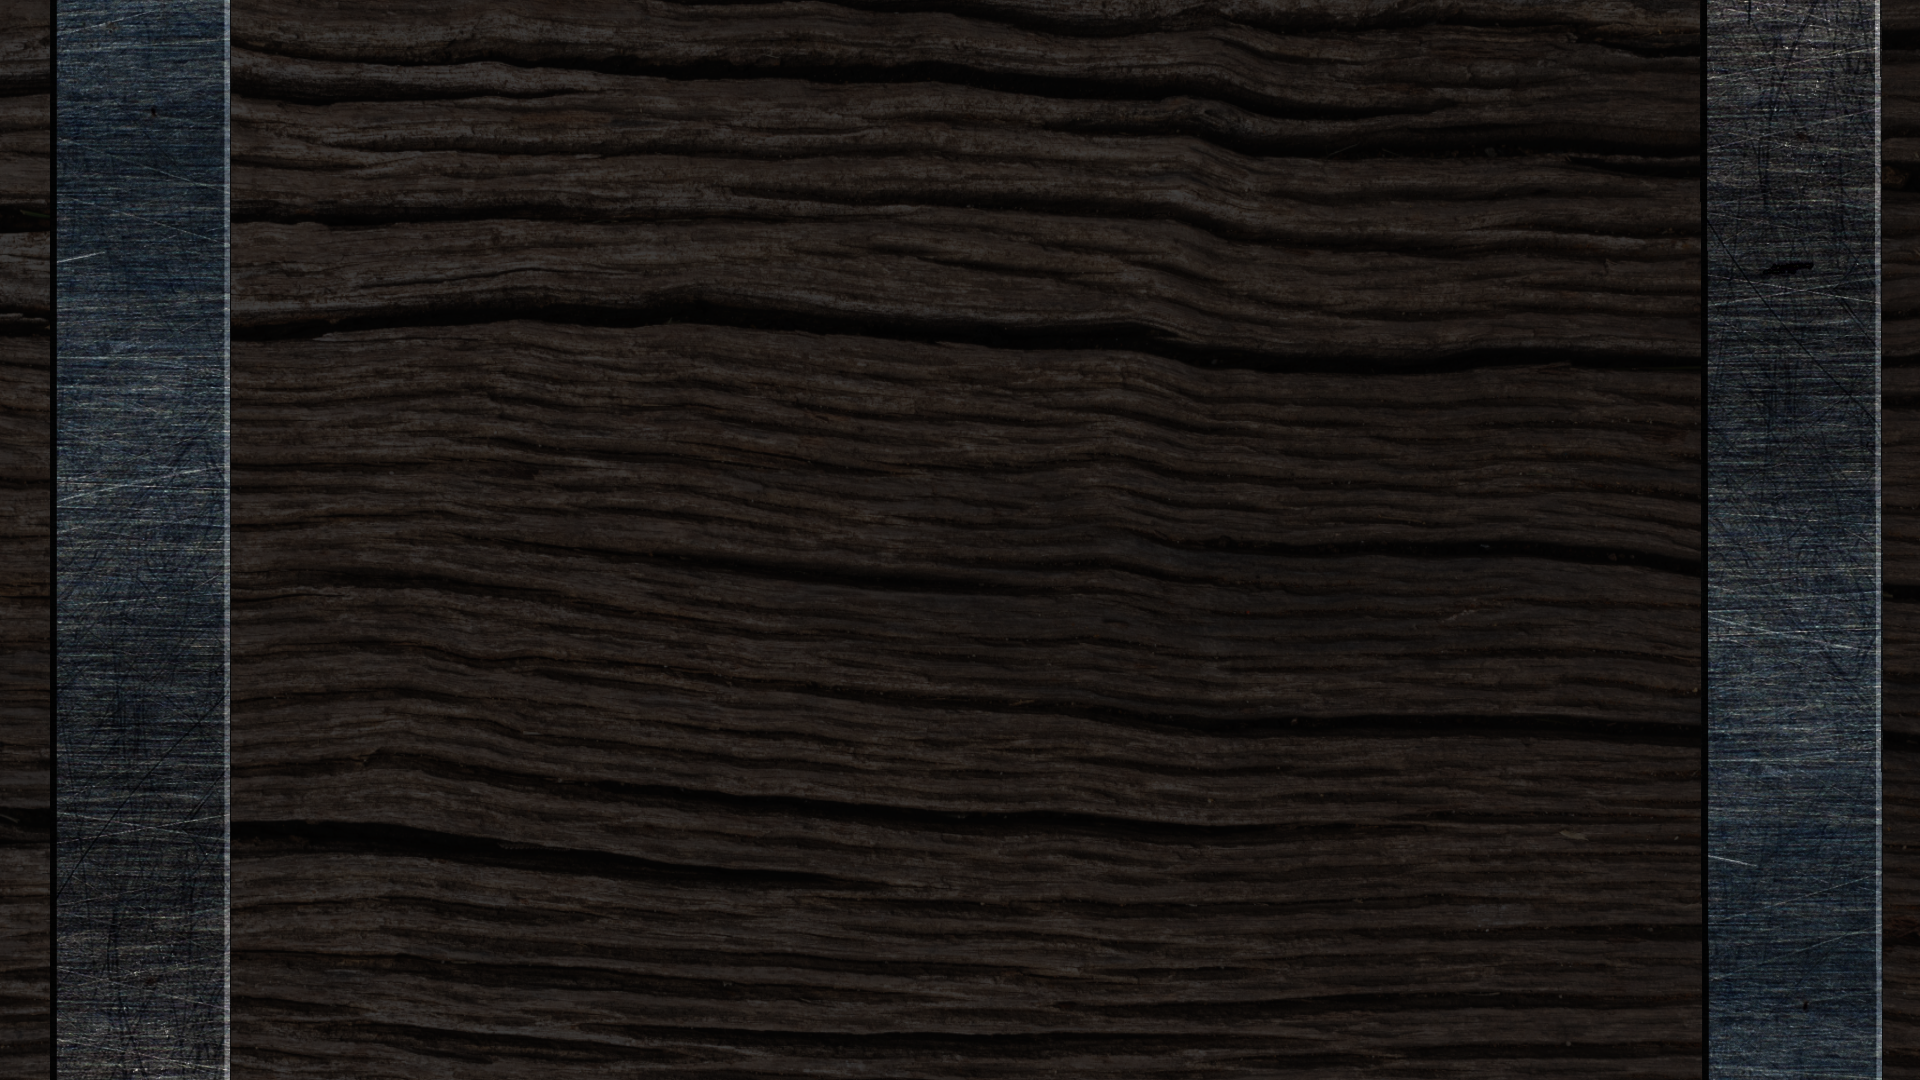
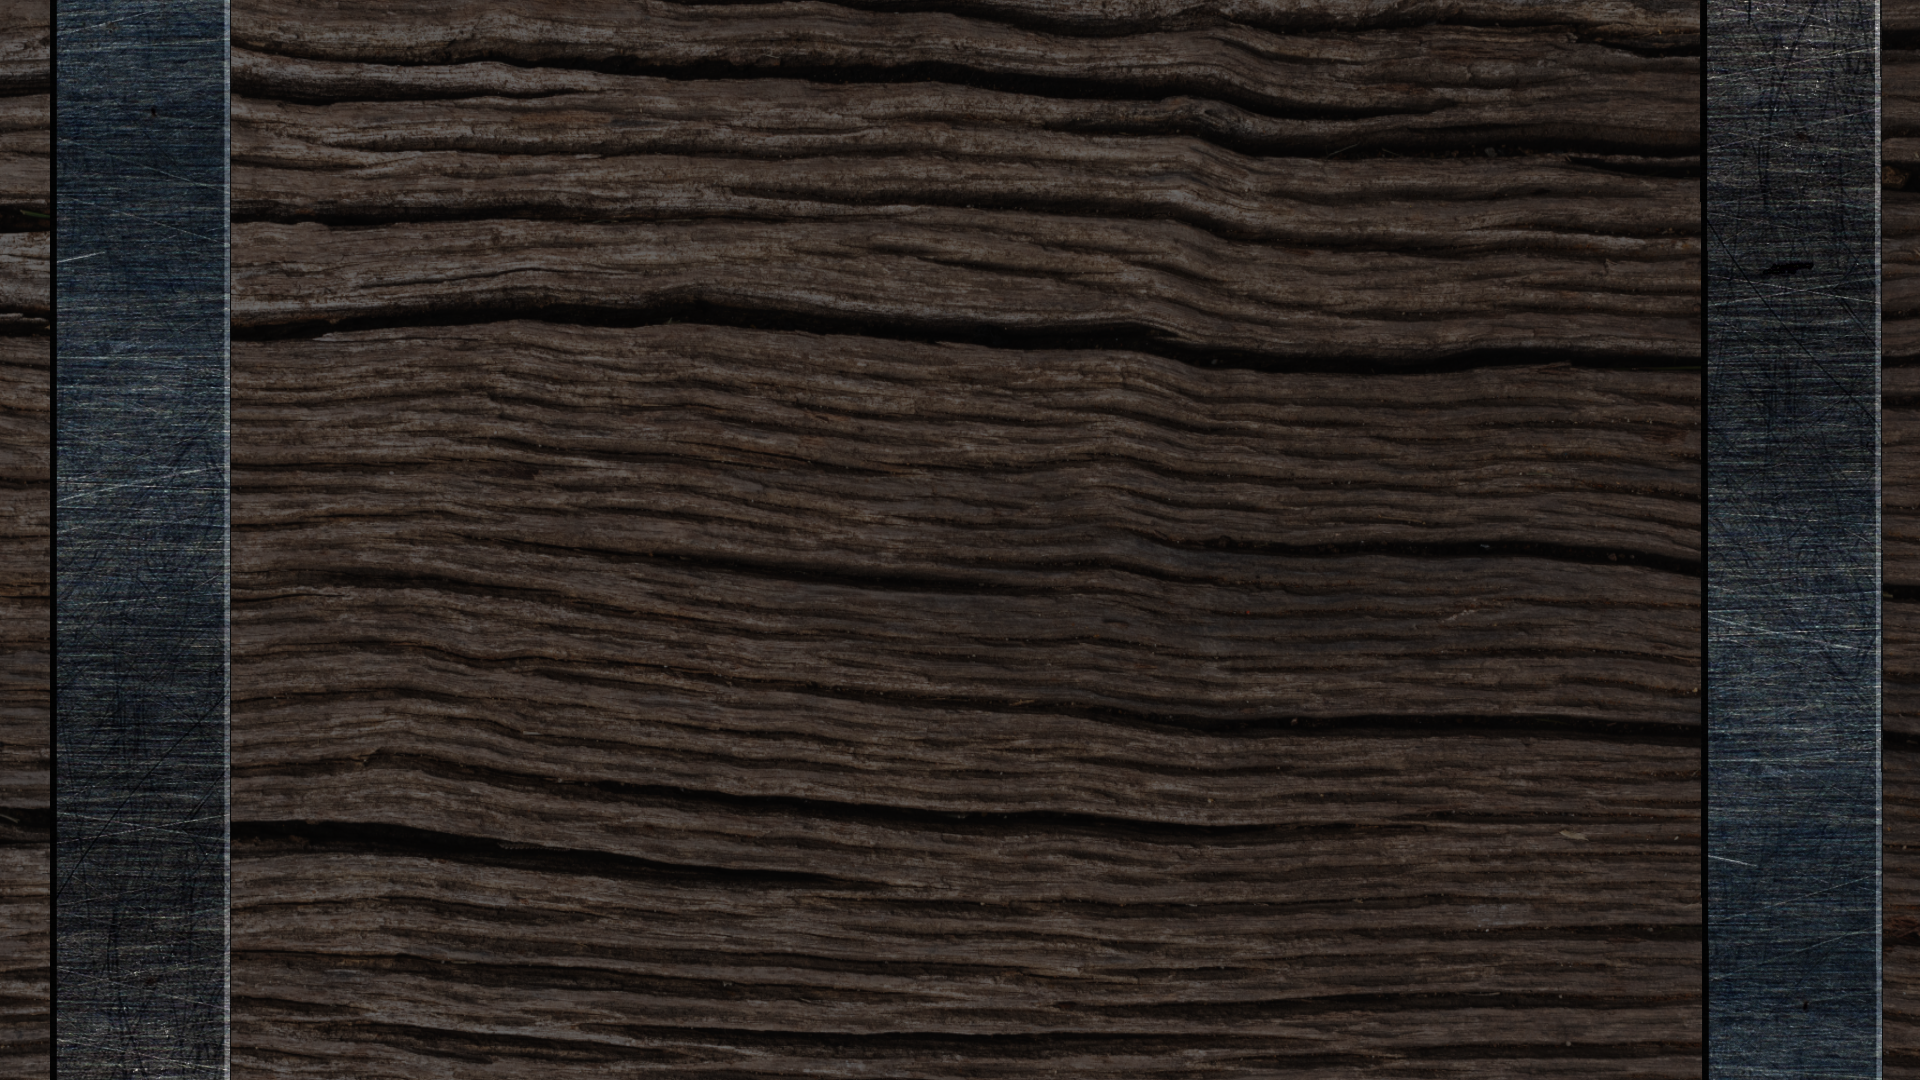
feat: post processing throug baseScene, removed old processing code

diff --git a/engine/include/scene/scene.hpp b/engine/include/scene/scene.hpp
@@ -26,16 +26,37 @@ private:
 
 class BaseScene: public IScene{
 public:
+    BaseScene(){m_renderTarget = ::LoadRenderTexture(::GetScreenWidth(),::GetScreenHeight());}
+    ~BaseScene(){::UnloadRenderTexture(m_renderTarget);}
     void OnRestore() override {};
     void OnSuspend() override {};
     void OnExit() override {};
 
     void OnDraw() override {
         BeginDrawing();
+        GetServices().renderer.beginTextureMode(m_renderTarget);
         ClearBackground(BLACK);
         OnDrawContent();
+        GetServices().renderer.endTextureMode();
+        OnDrawToScreen();
         EndDrawing();
     };
+    //Use for post processing
+    virtual void OnDrawToScreen() {
+        auto drawCall = [this](){
+            ::DrawTextureRec(m_renderTarget.texture,
+            {0, 0, static_cast<float>(m_renderTarget.texture.width), static_cast<float>(-m_renderTarget.texture.height)},
+            {0, 0}, WHITE);
+        };
+        auto& usr = GetServices().runtimeCfg.user;
+        useShaderUnchecked(
+            "processing",
+            {{"brightness", usr.userBrightness},
+            },
+            drawCall
+        );
+        
+    }
     void OnUpdate(float dt) override {
         PerfTester tester = GetServices().perfLog.log("Scene OnUpdate Full");
         Tester perfProblemCheck("Scene OnUpdate", 20, true);
@@ -51,6 +72,7 @@ public:
         bool needsResize = root.OnUpdate(dt); //updates other data related to UI states
         if (needsResize || ::IsWindowResized()) { //resize if needed
             OnResize();
+            
         }
         OnUpdateState(); //updates scene data not UI
     };
@@ -85,16 +107,24 @@ protected:
         mylog::GetLogger().DebugInfo("Resized: ", Vector2{::GetScreenWidth()/1.0f, ::GetScreenHeight()/1.0f});
         PerfTester tester = GetServices().perfLog.log("OnResize");
         auto dims = Vector2{
-                static_cast<float>(::GetScreenWidth()),
-                static_cast<float>(::GetScreenHeight())
-            };
-            MyRectangle rect = {{0,0}, dims};
-            root.OnMeasure(dims);
-            root.OnArrange(rect);
+            static_cast<float>(::GetScreenWidth()),
+            static_cast<float>(::GetScreenHeight())
+        };
+        MyRectangle rect = {{0,0}, dims};
+        root.OnMeasure(dims);
+        root.OnArrange(rect);
+        Ivec2 newSize = {GetScreenWidth(),GetScreenHeight()};
+        if (lastSize!= newSize){
+            ::UnloadRenderTexture(m_renderTarget);
+            m_renderTarget = ::LoadRenderTexture(newSize.x,newSize.y);
+            lastSize = newSize;
+        }
     }
     virtual void OnDrawContent() = 0;
     virtual void OnUpdateState() = 0;
     Root root;
     Animated<float> m_transitionProggress{0.0f, 0.0f, Easing::easeInOutCubic};
+    RenderTexture2D m_renderTarget;
+    Ivec2 lastSize;
     float m_transitionTime{0}; //Set this to 0 to have zero transition time
 };

diff --git a/engine/src/ui/debugOverlay.cpp b/engine/src/ui/debugOverlay.cpp
@@ -26,7 +26,6 @@ DebugOverlay::DebugOverlay(UIComponentSpec uiSpec, LayoutSpec layoutSpec)
         LayoutSpec{}.AlignBegin().CrossBegin()
     );
     auto& cfg = GetServices().runtimeCfg;
-    auto& p = cfg.user.processing;
     Text valText("", "text");
     UICSpec sliderSpec;
     auto [sBarH, sMinTh, sMaxTh, sTarget] = std::make_tuple(4.0f, 5.0f, 10.0f, Vector2{200,10});
@@ -58,16 +57,8 @@ DebugOverlay::DebugOverlay(UIComponentSpec uiSpec, LayoutSpec layoutSpec)
 
     right->Add(
         PerformanceDisplay(valText, UICSpec{}.SetFlex({0,1})),
-        ValueLabel<float>("Brightness: {:.2f}", &p.brightness, valText),
-        Slider<float>(&p.brightness, 0.1f, 3.0f, nullptr, sliderSpec, sBarH, sMinTh, sMaxTh, sTarget),
-        ValueLabel<float>("Contrast: {:.2f}", &p.contrast, valText),
-        Slider<float>(&p.contrast, 0.0f, 5.0f, nullptr, sliderSpec, sBarH, sMinTh, sMaxTh, sTarget),
-        ValueLabel<float>("Saturation: {:.2f}", &p.saturation, valText),
-        Slider<float>(&p.saturation, 0.0f, 5.0f, nullptr, sliderSpec, sBarH, sMinTh, sMaxTh, sTarget),
-        ValueLabel<float>("Gamma: {:.2f}", &p.gamma, valText),
-        Slider<float>(&p.gamma, 0.1f, 5.0f, nullptr, sliderSpec, sBarH, sMinTh, sMaxTh, sTarget),
-        ValueLabel<float>("Alpha: {:.2f}", &p.alpha, valText),
-        Slider<float>(&p.alpha, 0.0f, 1.0f, nullptr, sliderSpec, sBarH, sMinTh, sMaxTh, sTarget),
+        ValueLabel<float>("Brightness: {:.2f}", &cfg.user.userBrightness, valText),
+        Slider<float>(&cfg.user.userBrightness, 0.1f, 3.0f, nullptr, sliderSpec, sBarH, sMinTh, sMaxTh, sTarget),
         ValueLabel<int>("Log msgs: {}", &cfg.debug.debugMessagesCount, valText),
         Slider<int>(&cfg.debug.debugMessagesCount, 1, 50, nullptr, sliderSpec, sBarH, sMinTh, sMaxTh, sTarget),
         BindingsDisplay(Text("", "text"), UICSpec{}.SetFlex({0,1}))
@@ -168,11 +159,7 @@ void DebugVerticalLayout::OnDrawContent(){
 }
 bool CfgDisplay::OnUpdate(float dt){
     auto& cfg = GetServices().runtimeCfg;
-    auto& p = cfg.user.processing;
-    SetText(std::format(
-        "shader: {}\nbrightness: {:.2f}\ncontrast:   {:.2f}\nsaturation: {:.2f}\ngamma:      {:.2f}\nalpha:      {:.2f}",
-        cfg.debug.useProcessingShader ? "PROCESSING" : "BRIGHTNESS",
-        p.brightness, p.contrast, p.saturation, p.gamma, p.alpha));
+    SetText(std::format("brightness: {:.2f}", cfg.user.userBrightness));
     return Label::OnUpdate(dt);
 }
 

diff --git a/app/src/scenes/testScene.cpp b/app/src/scenes/testScene.cpp
@@ -53,46 +53,12 @@ void TestScene::OnRestore(){
 }
 
 void TestScene::OnUpdateState(){
-    constexpr float speed = 0.02f;
-    auto& input = GetServices().input;
-    auto& p = GetServices().runtimeCfg.user.processing;
-
-    p.brightness += input.GetAxis(KEY_W, KEY_S) * speed;
-    p.contrast   += input.GetAxis(KEY_E, KEY_D) * speed;
-    p.saturation += input.GetAxis(KEY_R, KEY_F) * speed;
-    p.gamma      += input.GetAxis(KEY_T, KEY_G) * speed;
-    p.alpha      += input.GetAxis(KEY_Y, KEY_H) * speed;
-
-    myClamp(p.brightness, 0.1f, 3.0f);
-    myClamp(p.contrast,   0.0f, 5.0f);
-    myClamp(p.saturation, 0.0f, 5.0f);
-    myClamp(p.gamma,      0.1f, 5.0f);
-    myClamp(p.alpha,      0.0f, 1.0f);
 }
 
 void TestScene::OnDrawContent(){
     PerfTester tester = GetServices().perfLog.log("OnDrawContent");
-
-    auto& cfg = GetServices().runtimeCfg;
-    auto& p = cfg.user.processing;
-    p.brightness = 2.5;
     auto& manager = GetServices().resManager;
-    auto drawCall = [&manager](){
-        ::DrawTexture(manager.getTexture("menu"), 0, 0, RAYWHITE);
-    };
-    if (cfg.debug.useProcessingShader) {
-        useShaderUnchecked(manager.getShaderProgram("processing"),
-            {{"brightness", p.brightness},
-             {"contrast",   p.contrast},
-             {"saturation", p.saturation},
-             {"gamma",      p.gamma},
-             {"alpha",      p.alpha}},
-            drawCall);
-    } else {
-        useShaderUnchecked(manager.getShaderProgram("brightness"),
-            {{"brightness", p.brightness}},
-            drawCall);
-    }
+    ::DrawTexture(manager.getTexture("menu"), 0, 0, RAYWHITE);
     root.OnDraw();
     BaseScene::DrawFadeTransition();
     

diff --git a/app/src/scenes/settingsScene.cpp b/app/src/scenes/settingsScene.cpp
@@ -21,7 +21,7 @@ void SettingsScene::OnEnter(){
             
             Background(
                 UICSpec{}.SetFlex({0,1}), 
-                BackgroundStyle{.texture = "button_default", .tint = WHITE, .processing = ProcessingValues{.saturation = 0} },
+BackgroundStyle{.texture = "button_default", .tint = WHITE, .processing = ProcessingValues{.saturation = 0} },
                 VerticalLayout( UICSpec{}.SetPadding({20,20,60,60}).SetFlex({1,1}), LayoutSpec{}.AlignCenter().CrossBegin(),
                     Checkbox(Text("VSYNC", "text"), &usrCfg.vsync,
                         [](bool vsync){
@@ -123,16 +123,7 @@ void SettingsScene::OnEnter(){
 
 void SettingsScene::OnDrawContent(){
     auto& manager = GetServices().resManager;
-    auto drawCall = [&manager](){
-        ::DrawTexture(manager.getTexture("menu"), 0, 0, RAYWHITE);
-    };
-    useShaderUnchecked(
-        manager.getShaderProgram("processing"),
-        {{"brightness", 2.0f},
-        {"saturation", 1.2f},
-        },
-        drawCall
-    );
+    ::DrawTexture(manager.getTexture("menu"), 0, 0, RAYWHITE);
     root.OnDraw();
     ::BaseScene::DrawFadeTransition();
 }

diff --git a/engine/include/rendering/shader.hpp b/engine/include/rendering/shader.hpp
@@ -21,9 +21,16 @@ struct ShaderInput{
     Uniforms uniforms;
 };
 
-
+//uses shader, checks for typos in uniforms names
 void useShader(const ShaderProgram& program, const Uniforms& uniforms, std::function<void()> drawCall);
+
+//uses shader, checks for typos in uniforms names
 void useShader(std::string name, const Uniforms& uniforms, std::function<void()> drawCall);
+
+//uses shader without checking for typos in uniforms names
 void useShaderUnchecked(const ShaderProgram& program, const Uniforms& uniforms, std::function<void()> drawCall);
+
+//uses shader without checking for typos in uniforms names
 void useShaderUnchecked(std::string name, const Uniforms& uniforms, std::function<void()> drawCall);
+
 void setShaderUnchecked(const ShaderProgram& program, const Uniforms& uniforms);

diff --git a/engine/include/runtimeConfig.hpp b/engine/include/runtimeConfig.hpp
@@ -11,7 +11,6 @@ struct DebugFlags {
     bool showDebugOverlay{false};
     bool debugFeaturesAllowed{true};
     int debugMessagesCount{20};
-    bool useProcessingShader{true};
     bool showOverlayGradient{true};
 };
 
@@ -24,7 +23,6 @@ inline const DebugFlags defaultDebugFlags{
     .showDebugOverlay = true,
     .debugFeaturesAllowed = true,
     .debugMessagesCount = 20,
-    .useProcessingShader = true,
     .showOverlayGradient = true,
 };
 
@@ -37,7 +35,6 @@ inline const DebugFlags defaultReleaseFlags{
     .showDebugOverlay = false,
     .debugFeaturesAllowed = true,
     .debugMessagesCount = 20,
-    .useProcessingShader = true,
     .showOverlayGradient = false,
 };
 

diff --git a/engine/src/ui/overlay.cpp b/engine/src/ui/overlay.cpp
@@ -28,9 +28,6 @@ Overlay::Overlay(UIComponentSpec uiSpec, LayoutSpec layoutSpec)
     listener->Bind(InputKey::KEY_F7, []{
         GetServices().runtimeCfg.debug.showDebugLog ^= true;
     }, "log");
-    listener->Bind(InputKey::KEY_F8, []{
-        GetServices().runtimeCfg.debug.useProcessingShader ^= true;
-    }, "shader");
     listener->Bind(InputKey::KEY_F9, []{
         GetServices().runtimeCfg.debug.showOverlayGradient ^= true;
     }, "gradient");

diff --git a/app/include/mainApp.hpp b/app/include/mainApp.hpp
@@ -11,7 +11,6 @@ class App: public IApp{
             .showFPS = true,    
             .userBrightness = 1,
             .windowMode = WindowMode::Windowed,
-            .processing{},
             .windowSize{1000,500},
             .windowPos{10,10},
             .theme{}

diff --git a/engine/include/userSettings.hpp b/engine/include/userSettings.hpp
@@ -24,7 +24,6 @@ public:
     float userBrightness{1};
     
     WindowMode windowMode{WindowMode::Windowed};
-    ProcessingValues processing;
     Ivec2 windowSize{};
     Ivec2 windowPos{};
     UITheme theme;
